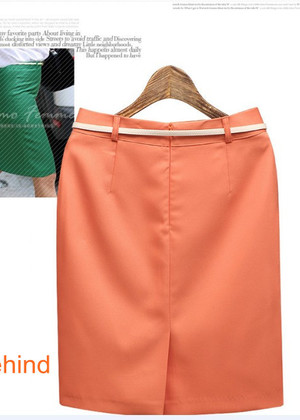
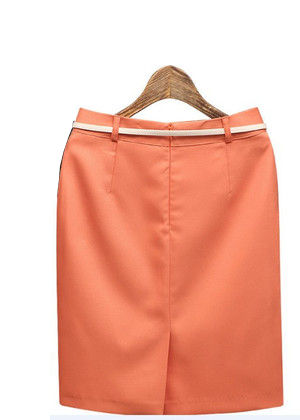
Fix working wardrobe images

Changed region(s): [[0.0, 0.0619, 0.48, 0.4952], [0.57, 0.0, 1.0, 0.031], [0.0, 0.8357, 0.18, 0.8976]]

diff --git a/working_wardrobe/skirts.html b/working_wardrobe/skirts.html
@@ -179,11 +179,7 @@
         			<div class="container">
                         <div class="col-md-5 col-sm-5 col-xs-12">
 							<div class="category-image">
-								<img src="/http://www.newclothing.co/wp-content/uploads/pencil-skirts.jpg
-
-http://workchic.com/blog/wp-content/uploads/2011/02/1-skirt-3-looks-01.jpg
-
-http://g02.a.alicdn.com/kf/UT8HFezXg8aXXagOFbXa/121038211/UT8HFezXg8aXXagOFbXa.jpg" alt="Working Wardrobe" class="img-responsive">
+								<img src="/images/working_wardrobe/skirts.png" alt="Working Wardrobe" class="img-responsive">
 							</div><!-- End .category-image -->
 						</div><!-- col-md-5 col-sm-5 col-xs-12 -->
 						
@@ -497,7 +493,7 @@ http://g02.a.alicdn.com/kf/UT8HFezXg8aXXagOFbXa/121038211/UT8HFezXg8aXXagOFbXa.j
     												<a href="skirts/fabmi2044921278.html">
     													<img src="/images/working_wardrobe/skirts/fabmi2044921278/prod_1.jpg" alt="item1" class="item-image center-block">
                                                        
-    													<img src="/images/working_wardrobe/skirts/fabmi2044921278/prod_1.jpg" alt="item1  Hover" class="item-image-hover center-block">
+    													<img src="/images/working_wardrobe/skirts/fabmi2044921278/prod_2.jpg" alt="item1  Hover" class="item-image-hover center-block">
                                                         
     												</a>
     											</figure>
@@ -521,7 +517,7 @@ http://g02.a.alicdn.com/kf/UT8HFezXg8aXXagOFbXa/121038211/UT8HFezXg8aXXagOFbXa.j
     												<a href="skirts/fabmi32325871428.html">
     													<img src="/images/working_wardrobe/skirts/fabmi32325871428/prod_1.jpg" alt="item1" class="item-image center-block">
                                                        
-    													<img src="/images/working_wardrobe/skirts/fabmi32325871428/prod_1.jpg" alt="item1  Hover" class="item-image-hover center-block">
+    													<img src="/images/working_wardrobe/skirts/fabmi32325871428/prod_2.jpg" alt="item1  Hover" class="item-image-hover center-block">
                                                         
     												</a>
     											</figure>

diff --git a/working_wardrobe/skirts/fabmi32325871428.html b/working_wardrobe/skirts/fabmi32325871428.html
@@ -194,8 +194,9 @@
                             <div id="product-image-carousel-container">
                                 <ul id="product-carousel" class="elastislide-list">
                                     
-                                    <li class="active-slide"><a data-rel='prettyPhoto' href="/images/working_wardrobe/skirts/fabmi32325871428/prod_1.jpg" ><img src="/images/working_wardrobe/skirts/fabmi32325871428/prod_1.jpg" alt="jacket photo 1"></a></li>
-                                    
+                                    <li class="active-slide"><a data-rel='prettyPhoto' href="/images/working_wardrobe/skirts/fabmi32325871428/prod_1.jpg" ><img src="/images/working_wardrobe/skirts/fabmi32325871428/prod_1.jpg" alt="skirt photo 1"></a></li>
+                                    <li><a data-rel='prettyPhoto' href="/images/working_wardrobe/skirts/fabmi32325871428/prod_2.jpg" ><img src="/images/working_wardrobe/skirts/fabmi32325871428/prod_2.jpg" alt="skirt photo 2"></a></li>
+                                    <li><a data-rel='prettyPhoto' href="/images/working_wardrobe/skirts/fabmi32325871428/prod_3.jpg" ><img src="/images/working_wardrobe/skirts/fabmi32325871428/prod_3.jpg" alt="skirt photo 2"></a></li>                                                                        
 
                             </ul><!-- End product-carousel -->
                             </div>
@@ -699,7 +700,7 @@
             carouselContainer.elastislide({
                 orientation : 'vertical',
                 
-                    minItems: 1
+                    minItems: 3
                                     
                     
             });

diff --git a/working_wardrobe/skirts/fabmi2044921278.html b/working_wardrobe/skirts/fabmi2044921278.html
@@ -194,7 +194,8 @@
                             <div id="product-image-carousel-container">
                                 <ul id="product-carousel" class="elastislide-list">
                                     
-                                    <li class="active-slide"><a data-rel='prettyPhoto' href="/images/working_wardrobe/skirts/fabmi2044921278/prod_1.jpg" ><img src="/images/working_wardrobe/skirts/fabmi2044921278/prod_1.jpg" alt="jacket photo 1"></a></li>
+                                    <li class="active-slide"><a data-rel='prettyPhoto' href="/images/working_wardrobe/skirts/fabmi2044921278/prod_1.jpg" ><img src="/images/working_wardrobe/skirts/fabmi2044921278/prod_1.jpg" alt="skirt photo 1"></a></li>
+                                    <li><a data-rel='prettyPhoto' href="/images/working_wardrobe/skirts/fabmi2044921278/prod_2.jpg" ><img src="/images/working_wardrobe/skirts/fabmi2044921278/prod_2.jpg" alt="skirt photo 2"></a></li>
                                     
 
                             </ul><!-- End product-carousel -->
@@ -585,7 +586,7 @@
             carouselContainer.elastislide({
                 orientation : 'vertical',
                 
-                    minItems: 1
+                    minItems: 2
                                     
                     
             });
